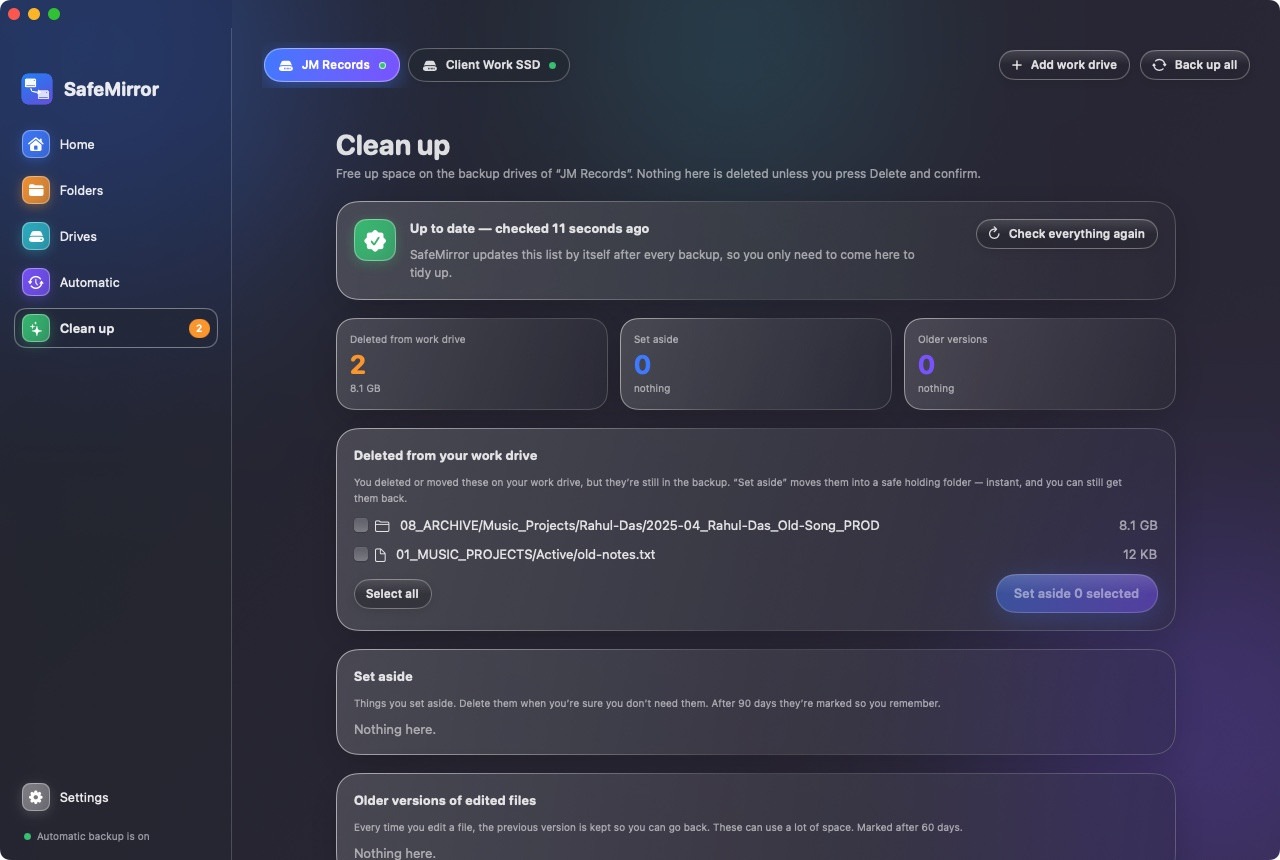
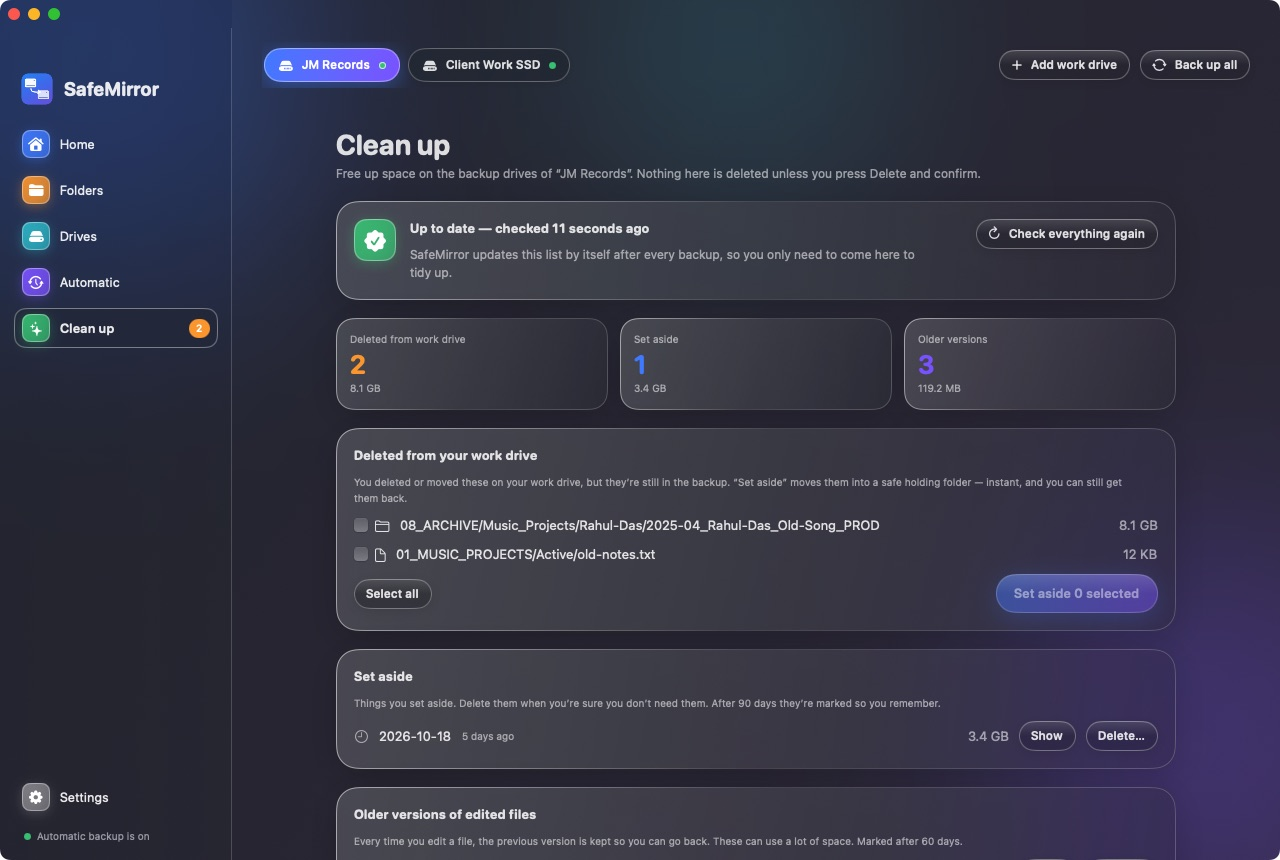
Website update (1.5.4)

diff --git a/index.html b/index.html
@@ -194,7 +194,7 @@ footer a{color:var(--muted)}
           <svg width="18" height="18" viewBox="0 0 24 24" fill="none" stroke="currentColor" stroke-width="2.4" stroke-linecap="round" stroke-linejoin="round" aria-hidden="true"><path d="M12 3v12m0 0 5-5m-5 5-5-5M5 20h14"/></svg>
           Download for Mac
         </a>
-        <span class="meta"><b id="ver">Version 1.5.3</b> · <span id="size">5.3 MB</span> · macOS 14 or newer · Apple Silicon &amp; Intel</span>
+        <span class="meta"><b id="ver">Version 1.5.4</b> · <span id="size">5.3 MB</span> · macOS 14 or newer · Apple Silicon &amp; Intel</span>
       </div>
     </div>
 
@@ -284,7 +284,7 @@ footer a{color:var(--muted)}
       <button class="tab" role="tab" aria-selected="false" data-img="assets/folders.jpg" data-cap="Folders — choose what is backed up, and star the everyday folders for quick backups.">Folders</button>
       <button class="tab" role="tab" aria-selected="false" data-img="assets/drives.jpg" data-cap="Drives — one work drive, as many backup drives as you like.">Drives</button>
       <button class="tab" role="tab" aria-selected="false" data-img="assets/automatic.jpg" data-cap="Automatic — set it once. It waits while Logic is open and stops if you open it mid-copy.">Automatic</button>
-      <button class="tab" role="tab" aria-selected="false" data-img="assets/cleanup.jpg" data-cap="Clean up — see what you deleted from your work drive, set it aside safely, and free up space when you decide.">Clean up</button>
+      <button class="tab" role="tab" aria-selected="false" data-img="assets/cleanup.jpg" data-cap="Clean up — it fills itself after every backup. See what you deleted from your work drive, set it aside safely, and free up space when you decide — with live progress while it works.">Clean up</button>
       <button class="tab" role="tab" aria-selected="false" data-img="assets/settings.jpg" data-cap="Settings — every work drive has its own rules.">Settings</button>
     </div>
     <div class="glass" style="padding:14px;border-radius:30px">
@@ -332,7 +332,7 @@ footer a{color:var(--muted)}
       <h2>Back up <em>today.</em></h2>
       <p class="lead">Two drives and three minutes. Then you can stop worrying about it.</p>
       <a class="btn primary dl" href="https://github.com/iamthearpan/SafeMirror-releases/releases/latest/download/SafeMirror.dmg">Download for Mac</a>
-      <p class="meta" style="margin-top:18px"><span id="ver2">Version 1.5.3</span> · macOS 14 or newer</p>
+      <p class="meta" style="margin-top:18px"><span id="ver2">Version 1.5.4</span> · macOS 14 or newer</p>
     </div>
   </div>
 </section>
